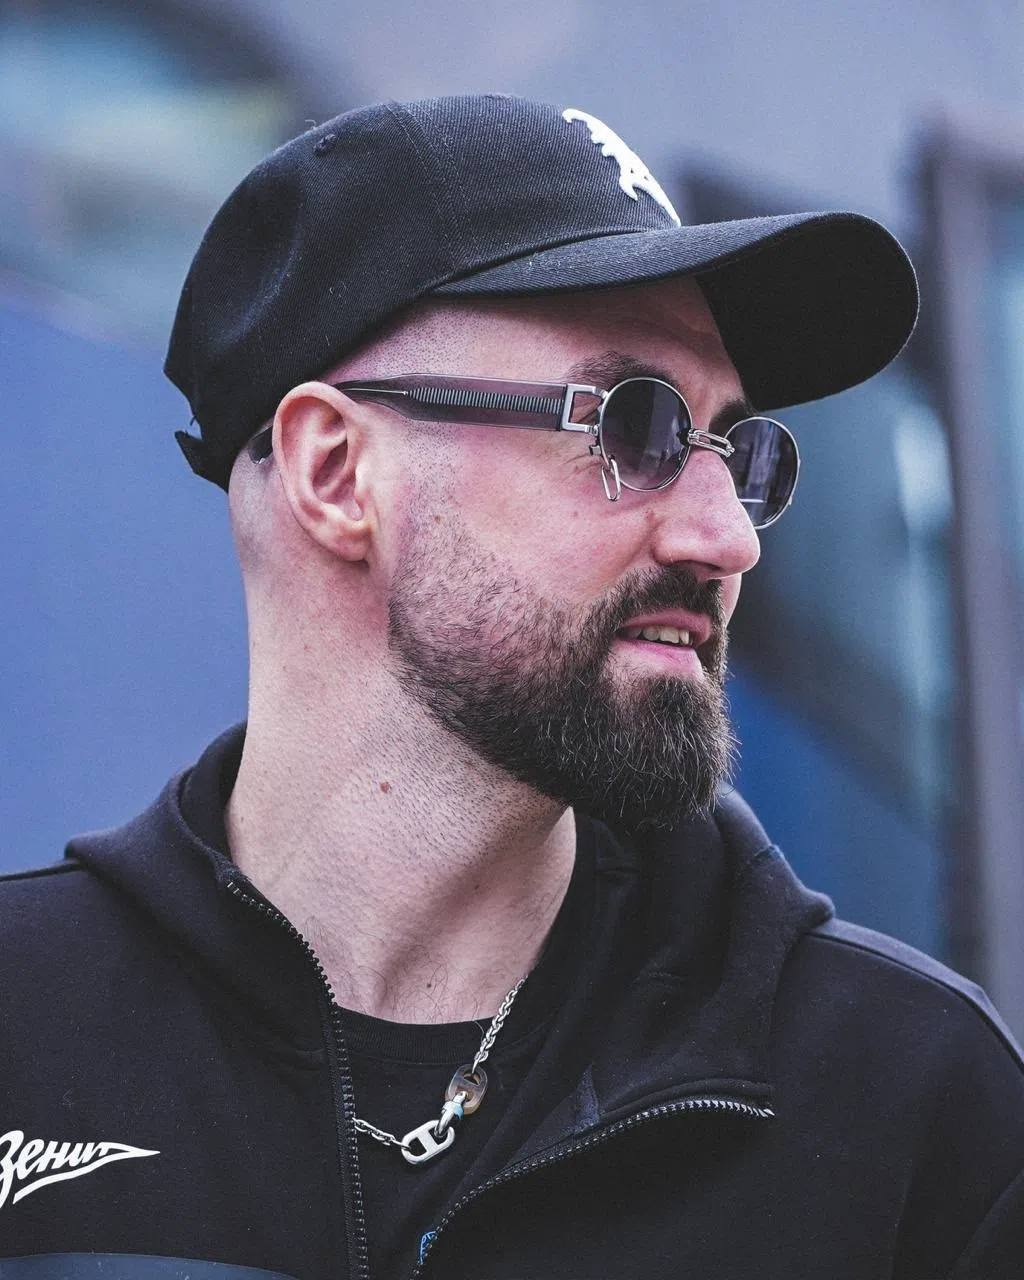
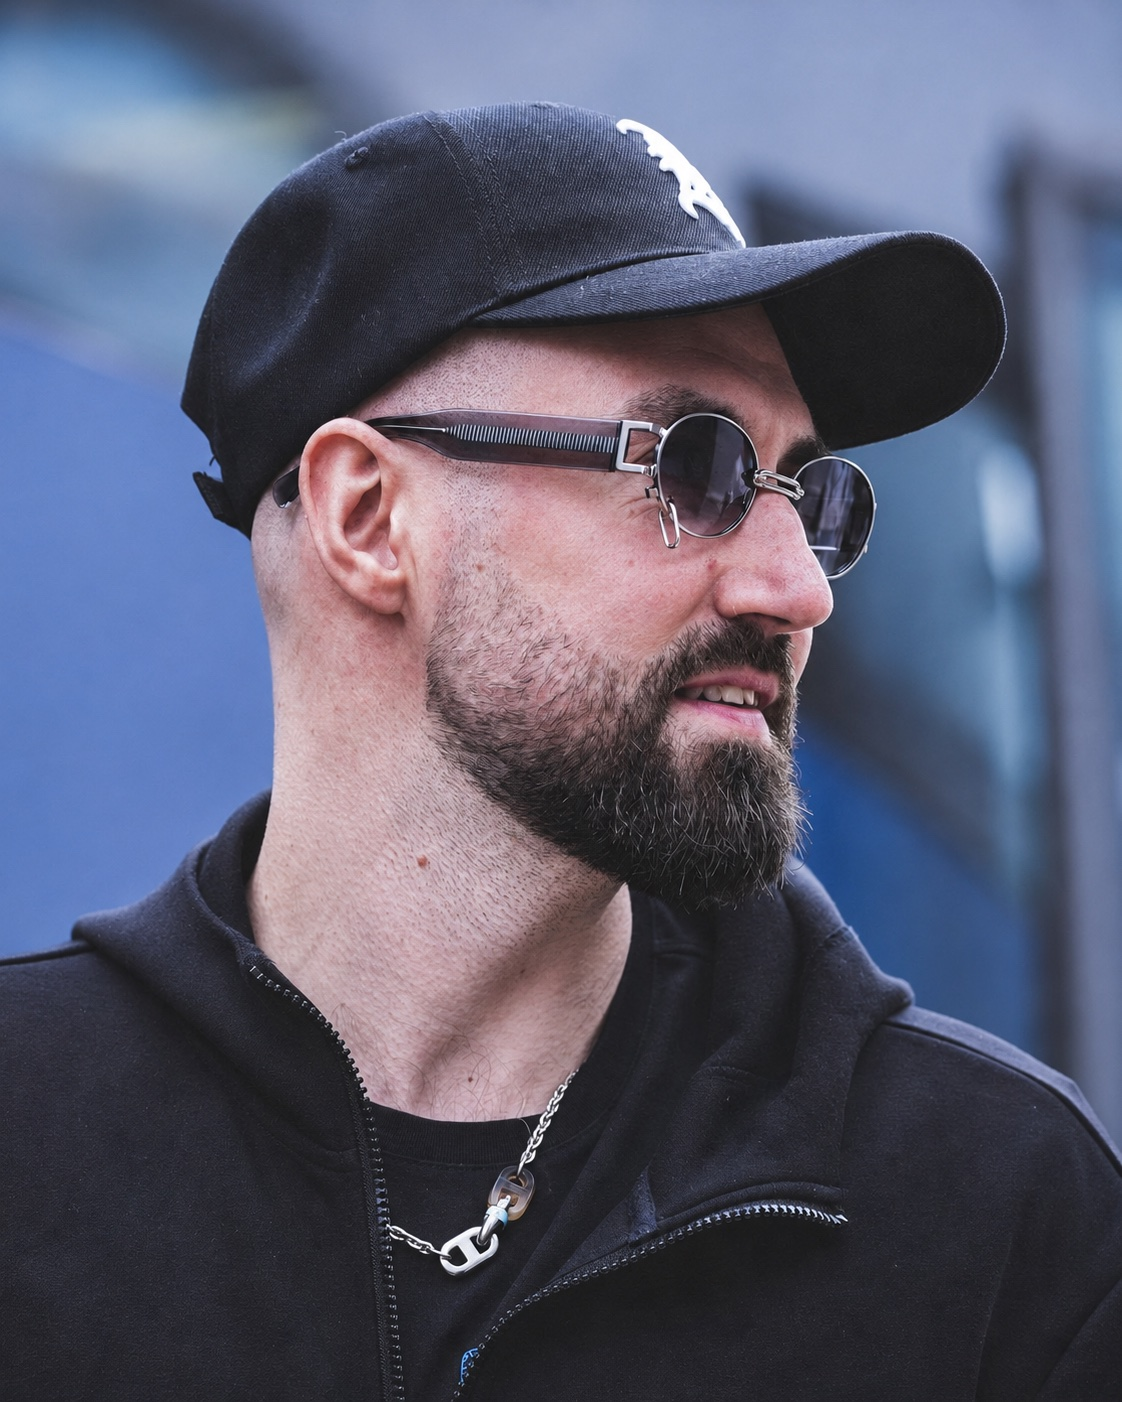
Update Karasyov photo and accent landing quote

diff --git a/frontend/src/components/public/HomePage.tsx b/frontend/src/components/public/HomePage.tsx
@@ -55,7 +55,9 @@ export function HomePage() {
         <div className={styles.ambassadorContent}>
           <span className={styles.ambassadorEyebrow}>Амбассадор SportArenaGlobal</span>
           <blockquote className={styles.ambassadorQuote}>
-            <h1 id="hero-title">Хватит ждать — тренируйся у лучших</h1>
+            <h1 id="hero-title">
+              Хватит ждать — тренируйся <span className={styles.ambassadorAccent}>у лучших</span>
+            </h1>
             <footer>
               <strong>Сергей Карасёв</strong>
               <span>Игрок ПБК «Зенит»</span>
@@ -74,8 +76,8 @@ export function HomePage() {
           className={styles.ambassadorPhoto}
           src="/sergey-karasev.jpg"
           alt="Сергей Карасёв"
-          width="1024"
-          height="1280"
+          width="1122"
+          height="1402"
           loading="eager"
         />
       </section>

diff --git a/frontend/src/components/public/public.module.css b/frontend/src/components/public/public.module.css
@@ -282,6 +282,10 @@
   text-wrap: balance;
 }
 
+.ambassadorAccent {
+  color: #ff4b50;
+}
+
 .ambassadorQuote footer {
   display: grid;
   gap: 4px;
